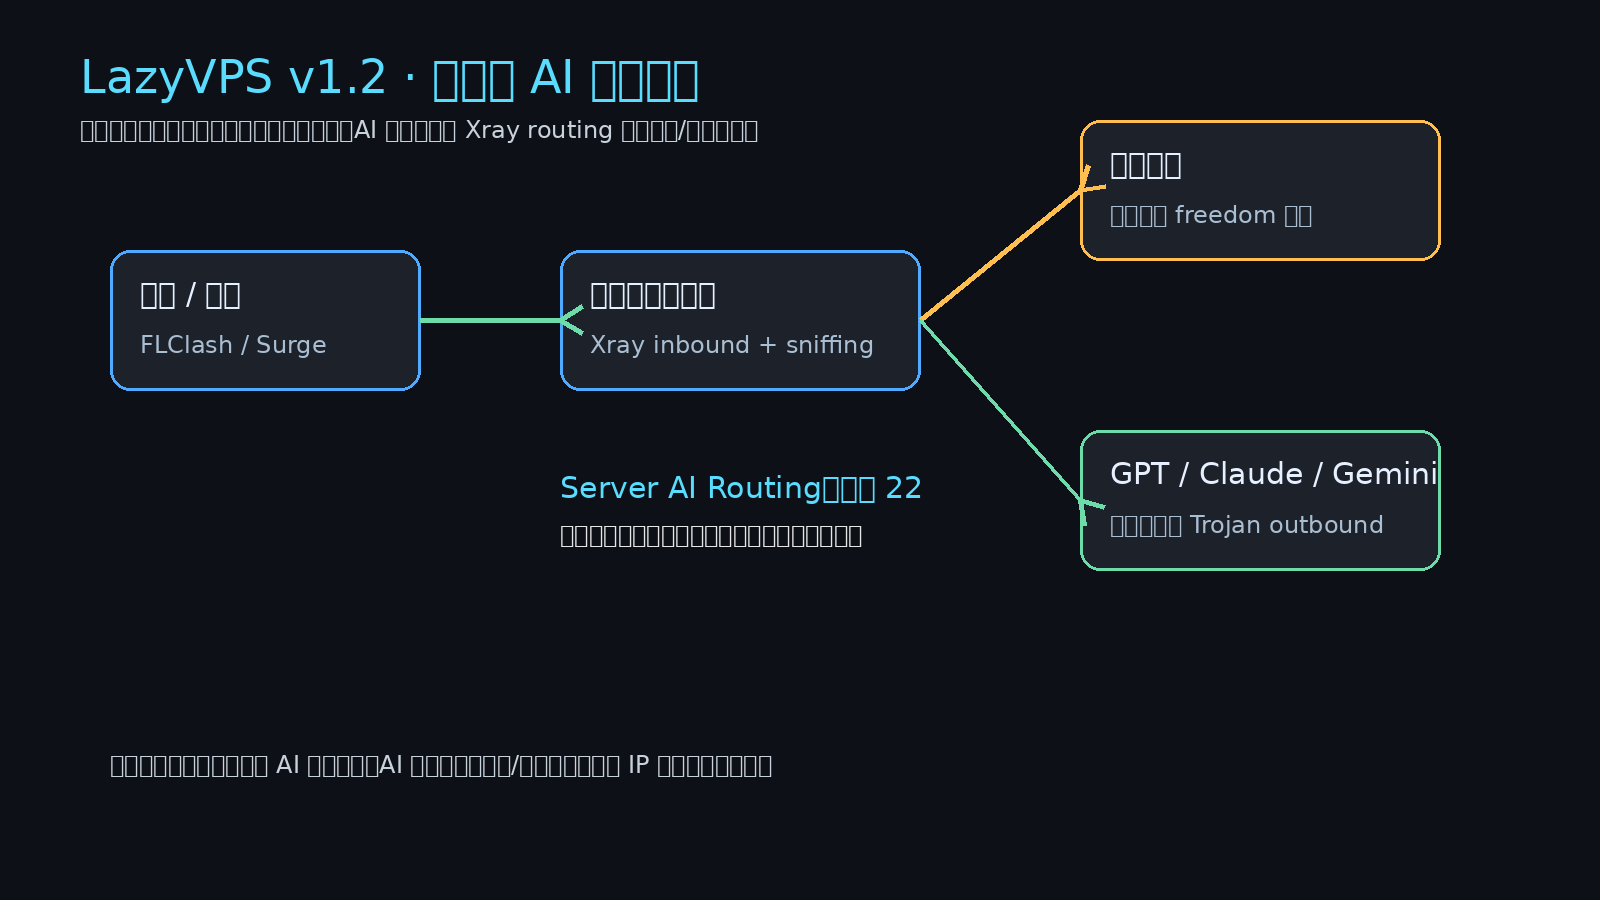
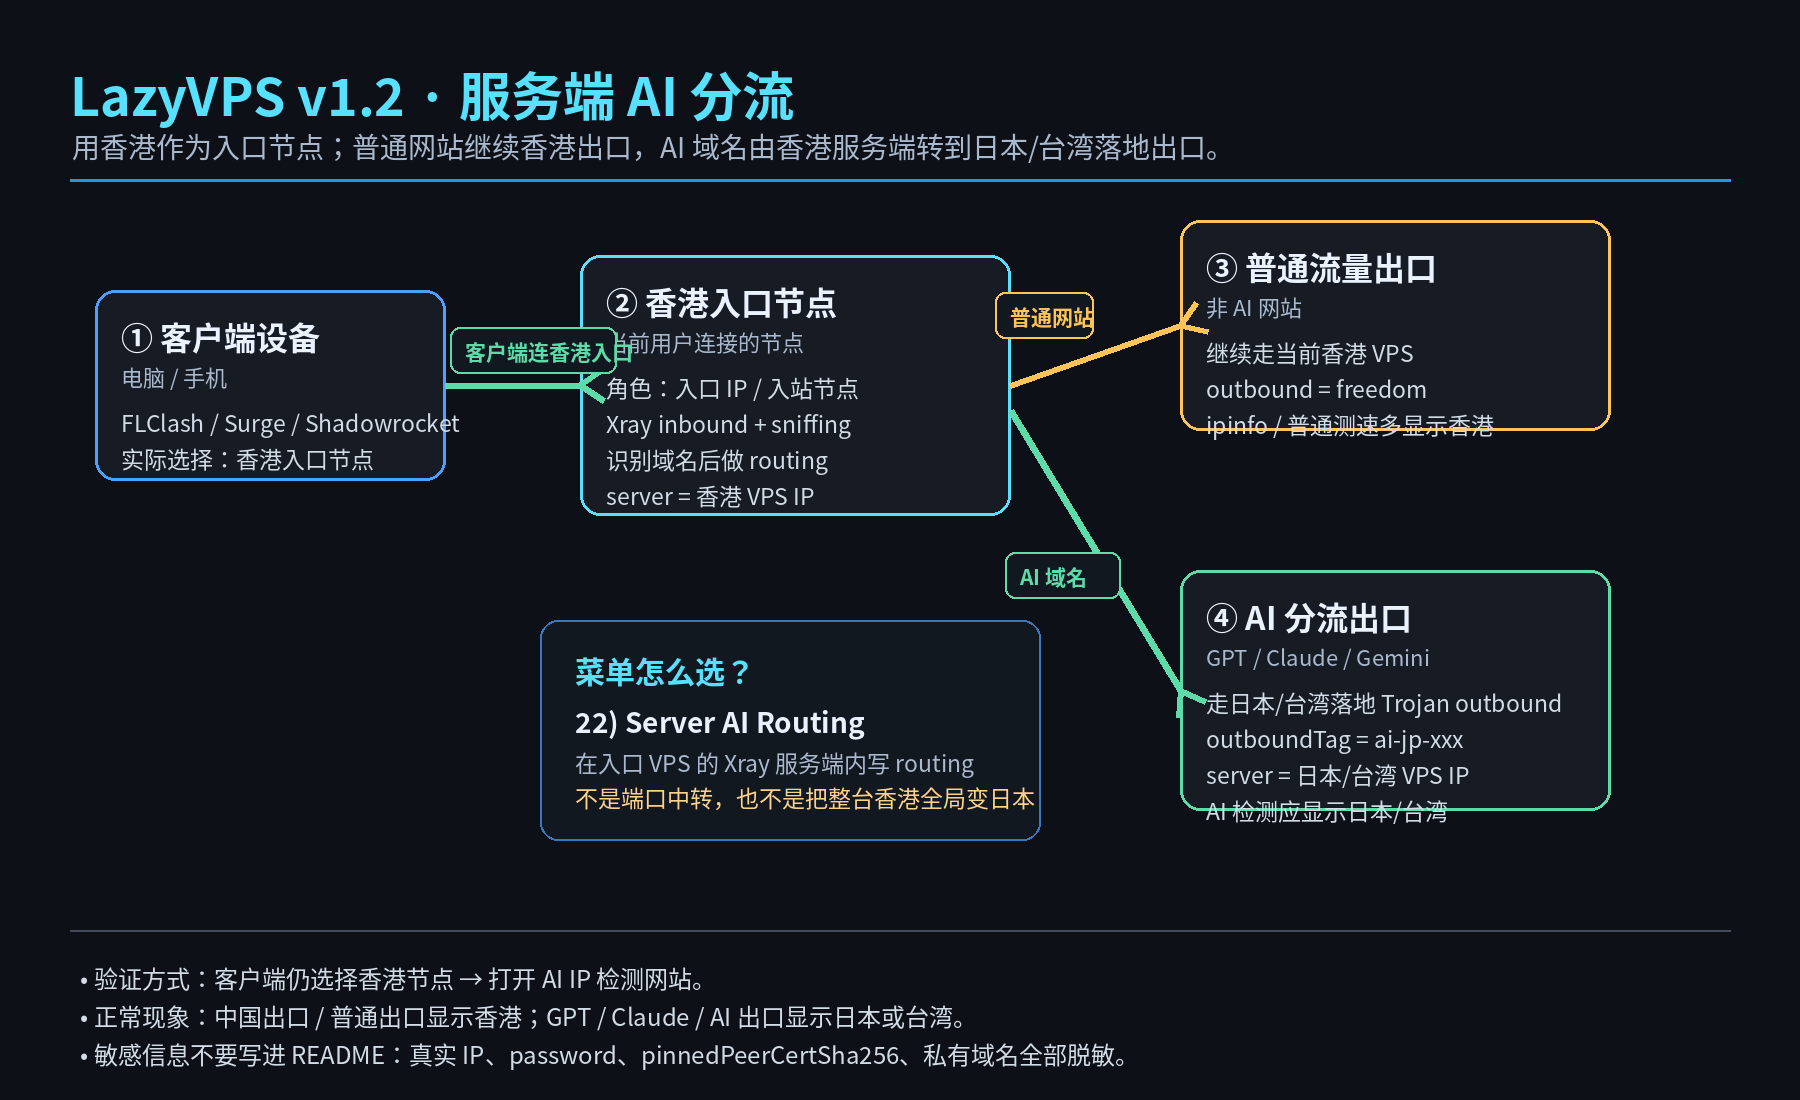
1.2更新增加AI分流落地小雞用法
1.2更新增加AI分流落地小雞用法

Changed region(s): [[0.0312, 0.0622, 0.9375, 0.4978], [0.3125, 0.4667, 0.9062, 0.7467], [0.0312, 0.84, 0.625, 0.9956]]

diff --git a/AI_SERVICE_ROUTING.md b/AI_SERVICE_ROUTING.md
@@ -5,6 +5,15 @@
 `Server AI Routing` 不是端口中转。  
 它是在当前 VPS 的 Xray 服务端内写入 routing，让 AI 域名走指定日本 / 台湾 Trojan outbound，其他普通流量仍走当前 VPS 默认出口。
 
+## 角色定义
+
+| 名称 | 说明 |
+|---|---|
+| 入口节点 | 客户端实际连接的 VPS，例如香港光维云 |
+| 普通出口 | 普通网站默认出口，通常仍然是入口 VPS 本机 |
+| AI 分流出口 | GPT / OpenAI / Claude / Gemini 被转发到的日本 / 台湾落地 |
+| 落地节点 | 日本 / 台湾 Trojan 节点，只写在入口 VPS 的 Xray outbound 里 |
+
 ## 应该在哪台 VPS 上执行？
 
 在“入口 VPS”上执行。

diff --git a/CHANGELOG.md b/CHANGELOG.md
@@ -12,8 +12,9 @@
 - 支持 Xray 26.x 自签证书场景的 `pinnedPeerCertSha256`。
 - 留空 pinned 指纹时，自动通过 openssl 抓取落地节点 TLS SHA256。
 - 写入前自动备份，配置测试失败自动回滚。
-- 文档新增 AI_SERVICE_ROUTING.md。
-- README 新增服务端 AI 分流步骤、截图、验证方式与常见问题。
+- README 新增入口 IP、普通出口 IP、AI 分流出口 IP、落地节点的角色定义。
+- README 保留原有 BASIC / PROTOCOL / CHECK / BACKUP / DOWNLOAD / RELAY / TUNE 全菜单截图。
+- 新增更清楚的服务端 AI 分流流程图，避免误解为端口中转。
 
 ### 修正
 